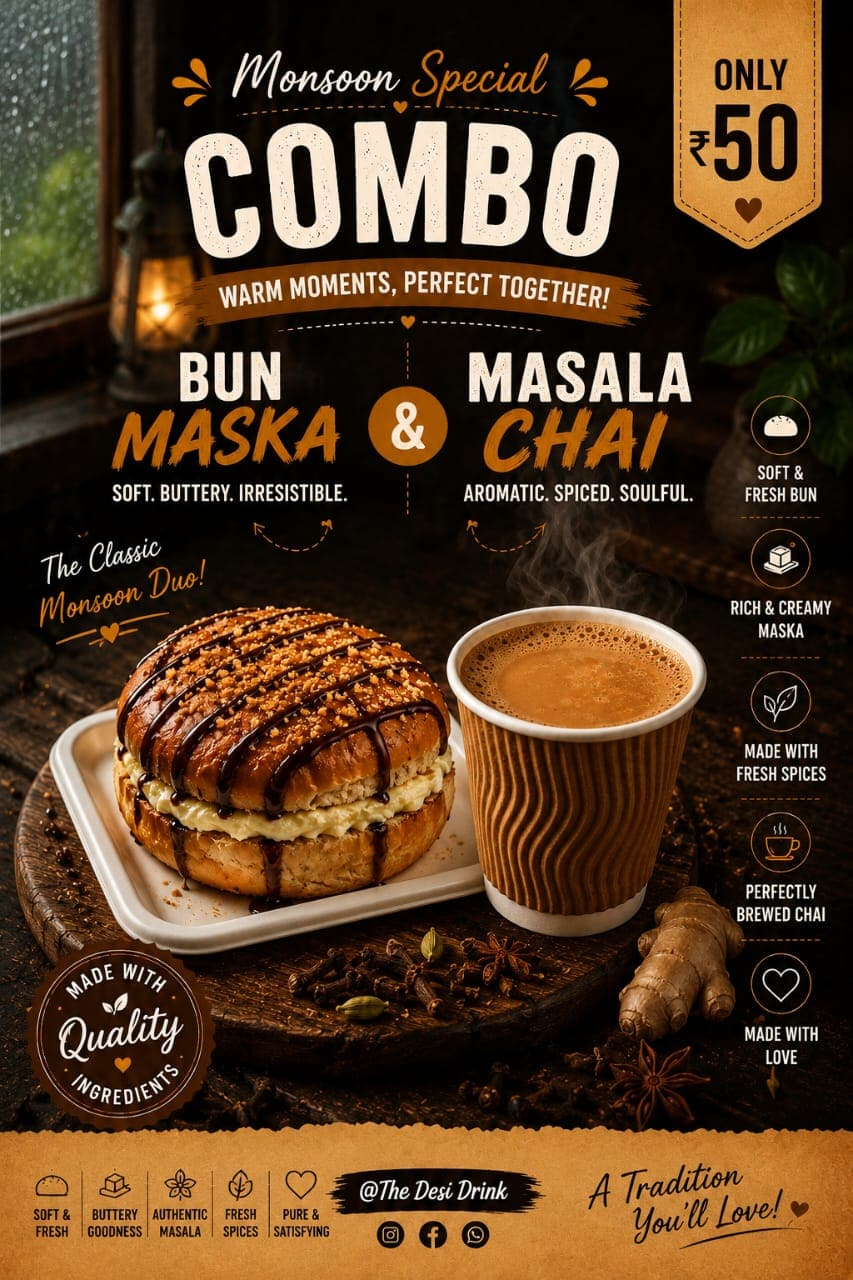
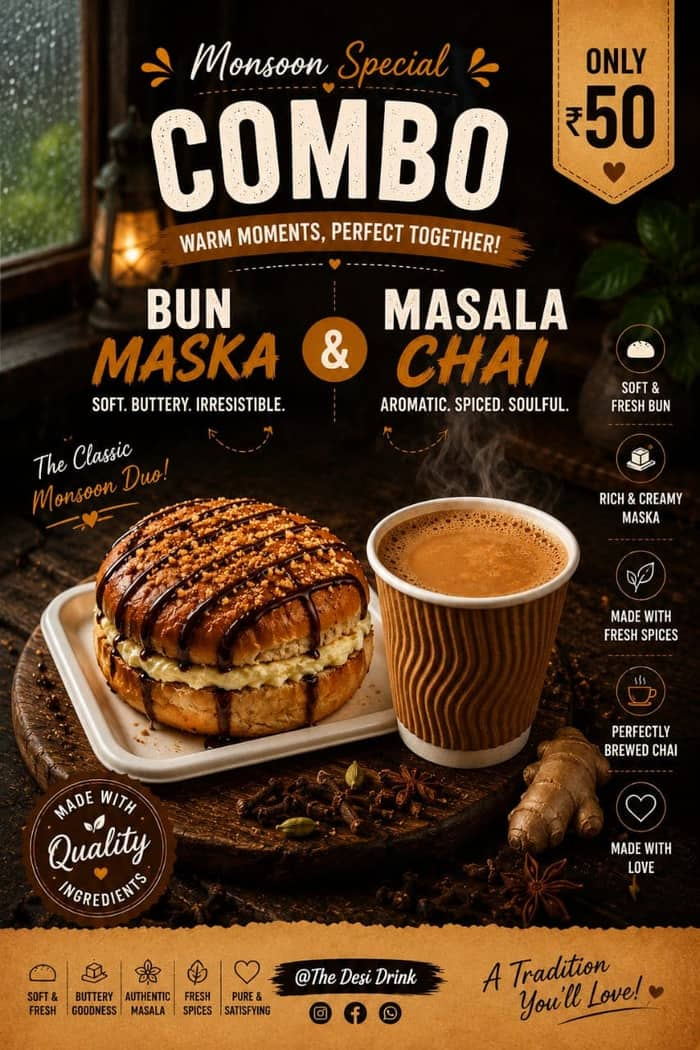
Fixed UI

diff --git a/index.html b/index.html
@@ -363,14 +363,14 @@
                 const slide = document.createElement('div');
                 slide.className = "relative w-full flex-shrink-0 overflow-hidden bg-gradient-to-br from-coffee-espresso to-coffee-dark text-coffee-cream p-6 min-h-[230px] flex flex-col justify-end";
                 slide.innerHTML = `
-                    <img src="${h.image || ''}" alt="${h.title || ''}" class="absolute inset-0 w-full h-full object-cover object-[center_25%] opacity-45">
+                    <img src="${h.image || ''}" alt="${h.title || ''}" class="absolute inset-0 w-full h-full object-cover object-[center_25%] opacity-45" ${i === 0 ? 'loading="eager" fetchpriority="high"' : 'loading="lazy"'}>
                     <div class="absolute inset-0 bg-gradient-to-t from-coffee-dark via-coffee-dark/50 to-transparent"></div>
                     <div class="relative z-10 space-y-3">
                         <span class="inline-block px-3 py-1 bg-coffee-honey text-coffee-espresso text-[10px] uppercase font-extrabold rounded-lg tracking-wider">${h.badge || ''}</span>
                         <h2 class="font-serif italic font-bold text-3xl leading-tight text-coffee-cream">${h.title || ''}</h2>
                         <p class="text-xs text-coffee-cream/85 font-medium leading-relaxed">${h.desc || ''}</p>
                         <div class="pt-1">
-                            <span class="inline-block px-5 py-3 bg-coffee-honey text-coffee-espresso rounded-xl text-xs font-extrabold shadow-md">Combo Special${h.price != null ? ` • ₹${h.price}` : ''}</span>
+                            <span class="inline-block px-5 py-3 bg-coffee-honey text-coffee-espresso rounded-xl text-xs font-extrabold shadow-md">${h.ctaLabel || 'Combo Special'}${h.price != null ? ` • ₹${h.price}` : ''}</span>
                         </div>
                     </div>`;
                 track.appendChild(slide);

diff --git a/config.js b/config.js
@@ -50,6 +50,7 @@ window.CAFE_CONFIG = {
       title: "Jambo Burger",
       desc: "The ultimate 3-layer burger! Huge, loaded with flavour, and made for true food lovers.",
       price: 150,
+      ctaLabel: "Newly Launched",
       image: "assets/menu/jambo-burger.jpg",
     },
     {